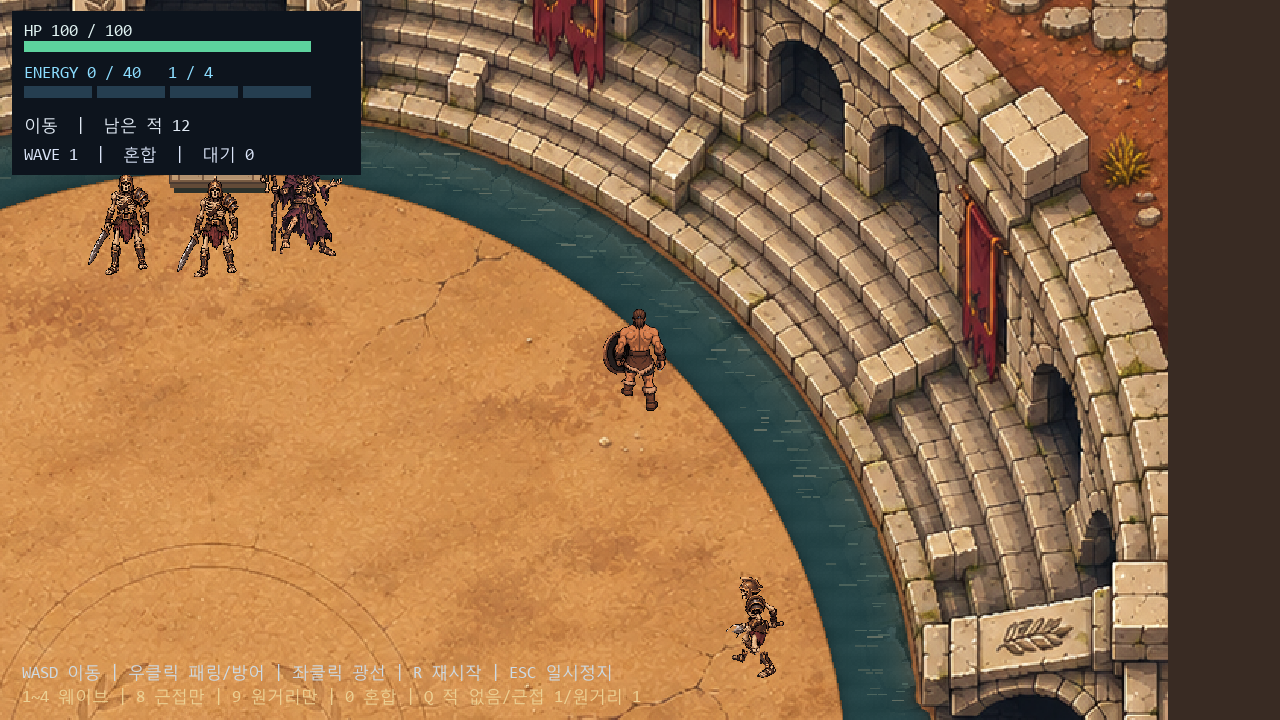
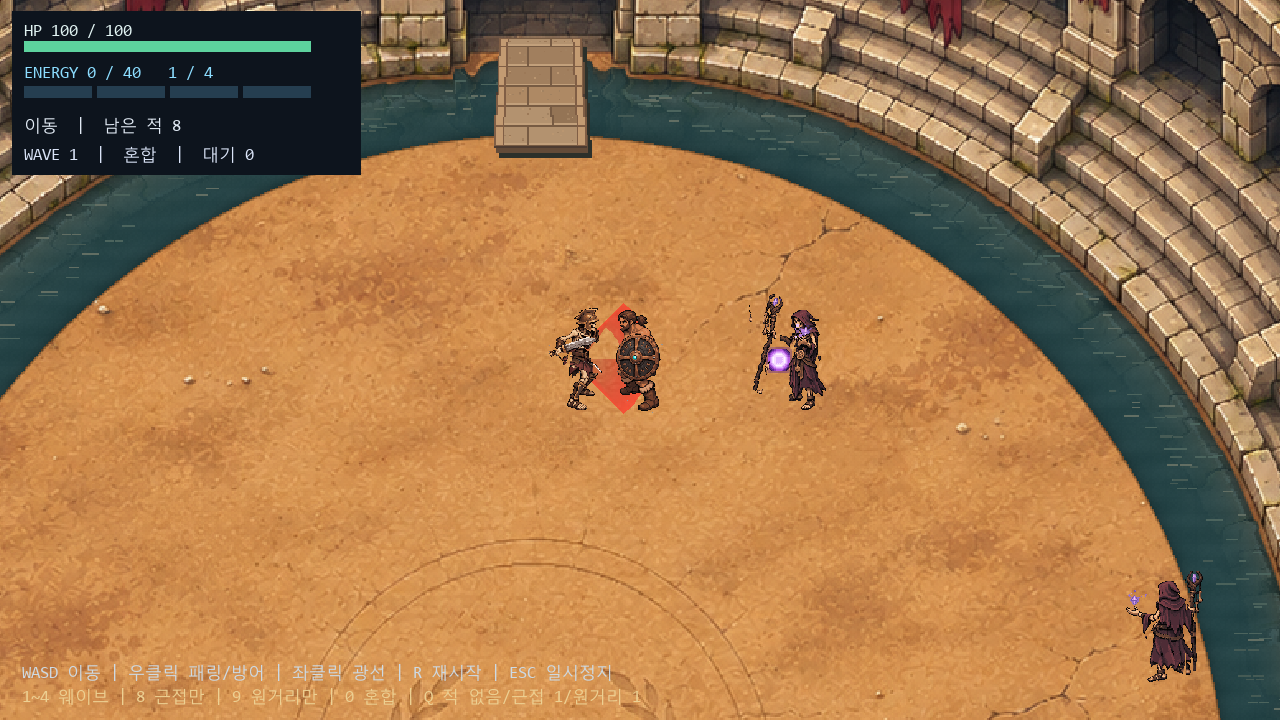
경기장을 확장하고 첫 웨이브와 주인공 이동 속도 조정

diff --git a/tests/test_waves.py b/tests/test_waves.py
@@ -50,22 +50,24 @@ class WaveTests(unittest.TestCase):
     def test_four_simultaneous_gates_every_point_three_seconds(self):
         player, waves = controller()
         waves.load()
-        self.assertEqual((len(waves.enemies), waves.pending), (4, 8))
+        self.assertEqual((len(waves.enemies), waves.pending), (4, 4))
         self.assertEqual({gate for _, gate, _ in waves.spawn_log}, {'north', 'south', 'west', 'east'})
         for enemy in waves.enemies:
-            self.assertTrue(player.arena.contains_box(enemy.x, enemy.y - .45, .9, .9))
+            foot_height = player.boundary_height
+            foot_y = enemy.y - (enemy.height - foot_height) / 2
+            self.assertTrue(player.arena.contains_box(enemy.x, foot_y, enemy.width, foot_height))
         elapse(waves, .299)
         self.assertEqual(len(waves.enemies), 4)
         elapse(waves, .001)
-        self.assertEqual((len(waves.enemies), waves.pending), (8, 4))
+        self.assertEqual((len(waves.enemies), waves.pending), (8, 0))
         elapse(waves, .3)
-        self.assertEqual((len(waves.enemies), waves.pending), (12, 0))
+        self.assertEqual((len(waves.enemies), waves.pending), (8, 0))
         self.assertEqual(sum(isinstance(e, RangedEnemy) for e in waves.enemies), 4)
         for gate in ('north', 'south', 'west', 'east'):
-            self.assertEqual([t for t, g, _ in waves.spawn_log if g == gate], [0, .3, .6])
+            self.assertEqual([t for t, g, _ in waves.spawn_log if g == gate], [0, .3])
 
     def test_count_and_kinds_for_every_wave_and_mode(self):
-        for number, count in ((1, 12), (2, 12), (3, 16), (4, 0)):
+        for number, count in ((1, 8), (2, 12), (3, 16), (4, 0)):
             for selection in ('all', 'melee', 'ranged'):
                 player, waves = controller()
                 waves.load(number, selection)
@@ -74,6 +76,10 @@ class WaveTests(unittest.TestCase):
                 self.assertEqual(waves.pending, 0)
                 ranged = sum(isinstance(e, RangedEnemy) for e in waves.enemies)
                 self.assertEqual(ranged, 0 if selection == 'melee' else count if selection == 'ranged' else min(count, 4))
+                if number == 1 and selection == 'all':
+                    for gate in ('north', 'south', 'east', 'west'):
+                        self.assertEqual([(time, kind) for time, entry, kind in waves.spawn_log
+                                          if entry == gate], [(0, 'melee'), (.3, 'ranged')])
 
     def test_q_cycles_zero_one_melee_one_ranged_and_clears_old_wave(self):
         player, waves = controller()
@@ -105,7 +111,7 @@ class WaveTests(unittest.TestCase):
             waves.handle_key(code)
             self.assertIsNone(waves.single_mode)
             elapse(waves, 1)
-            expected = 0 if waves.number == 4 else 16 if waves.number == 3 else 12
+            expected = {1: 8, 2: 12, 3: 16, 4: 0}[waves.number]
             self.assertEqual(len(waves.enemies), expected)
 
     def test_jump_and_filter_remove_old_objects_and_queue_keep_player(self):

diff --git a/tools/generate_data.py b/tools/generate_data.py
@@ -191,7 +191,7 @@ def validate_waves(data, scale, combat):
     for row in data['ranged']:
         if row['character_id'] not in characters:
             raise ValueError('존재하지 않는 원거리 캐릭터 참조')
-        if not combat['systems'][0]['guard_kmph'] < row['speed_kmph'] < characters[row['character_id']]['speed_kmph']:
+        if row['speed_kmph'] >= characters[row['character_id']]['speed_kmph']:
             raise ValueError('원거리 적 이동 속도 관계가 잘못되었습니다.')
     return data
 
@@ -244,12 +244,14 @@ def validate_combat(data, scale):
     if system['beam_duration_s'] <= system['beam_tick_s'] * 2:
         raise ValueError('광선 지속 시간이 세 번째 타격 전에 끝납니다.')
     characters = {r['id']: r for r in scale['characters']}
+    if system['guard_kmph'] >= characters['player']['speed_kmph']:
+        raise ValueError('기본 방어 이동 속도는 달리기보다 느려야 합니다.')
     enemies = {r['id']: r for r in data['enemies']}
     for enemy in enemies.values():
         if enemy['character_id'] not in characters:
             raise ValueError('존재하지 않는 캐릭터 참조')
-        if not system['guard_kmph'] < enemy['speed_kmph'] < characters[enemy['character_id']]['speed_kmph']:
-            raise ValueError('기본 방어 < 적 < 일반 이동 속도 관계가 잘못되었습니다.')
+        if enemy['speed_kmph'] >= characters[enemy['character_id']]['speed_kmph']:
+            raise ValueError('근접 적 이동 속도는 달리기보다 느려야 합니다.')
     return data
 
 

diff --git a/tests/test_scale.py b/tests/test_scale.py
@@ -107,7 +107,7 @@ class ScaleTests(unittest.TestCase):
         for width, height in ((1280, 720), (1920, 1080), (2560, 1440), (1280, 1024)):
             arena, player, camera = scene(width, height)
             ppm = camera.pixels_per_meter
-            self.assertAlmostEqual(arena.radius * 2 * ppm, height * 1.75)
+            self.assertAlmostEqual(arena.radius * 2 * ppm, height * 1.9)
             melee = MeleeEnemy('melee', ENEMIES['melee'], 0, 0, player)
             ranged = RangedEnemy('ranged', RANGED['ranged'], 0, 0, player, None)
             for actor in (player, melee, ranged):
@@ -127,7 +127,7 @@ class ScaleTests(unittest.TestCase):
                 game_framework.frame_time = 1 / fps
                 for _ in range(fps * 3):
                     player.update()
-                self.assertAlmostEqual(hypot(player.x, player.y), 14 / 3.6 * 3)
+                self.assertAlmostEqual(hypot(player.x, player.y), 22 / 3.6 * 3)
 
     def test_irregular_frames_and_key_release(self):
         _, player, _ = scene()
@@ -255,7 +255,7 @@ class RenderTests(unittest.TestCase):
             game_framework.frame_time = 1 / 60
             for _ in range(60):
                 play_mode.update()
-            self.assertAlmostEqual(play_mode.player.y, 14 / 3.6)
+            self.assertAlmostEqual(play_mode.player.y, 22 / 3.6)
             self.assertEqual(play_mode.camera.to_screen(play_mode.player.x, play_mode.player.y),
                              (640, 360))
             with patch.object(pico2d, 'get_events', return_value=[]), \

diff --git a/tests/test_combat.py b/tests/test_combat.py
@@ -86,7 +86,7 @@ class CombatTests(unittest.TestCase):
         self.assertEqual(combat.state, 'guard')
         x = player.x
         advance(player, [], 1)
-        self.assertAlmostEqual(player.x - x, 7 / 3.6)
+        self.assertAlmostEqual(player.x - x, 14 / 3.6)
         combat.right_up()
         self.assertEqual(combat.state, 'free')
         combat.right_down()
@@ -235,7 +235,7 @@ class CombatTests(unittest.TestCase):
         self.assertFalse(player.combat.fire())
         advance(player, [], .5)
         self.assertEqual(beam.angle, 0)
-        self.assertAlmostEqual(player.y, 14 / 3.6 * .5)
+        self.assertAlmostEqual(player.y, 22 / 3.6 * .5)
         self.assertEqual((enemy.hp, other.hp), (55, 55))
         advance(player, [], 1)
         self.assertEqual(player.combat.state, 'free')
@@ -269,7 +269,8 @@ class CombatTests(unittest.TestCase):
         scale = json.loads((ROOT / 'data/scale.json').read_text(encoding='utf-8'))
         for sheet, field, value in (('enemies', 'character_id', 'missing'),
                                     ('systems', 'energy_max', None),
-                                    ('enemies', 'speed_kmph', 20),
+                                    ('enemies', 'speed_kmph', 22),
+                                    ('systems', 'guard_kmph', 22),
                                     ('stages', 'parry_window_s', 2)):
             data = copy.deepcopy(source)
             data[sheet][0][field] = value

diff --git a/game_data.py b/game_data.py
@@ -7,7 +7,7 @@ VIEWPORTS = {'main': {'id': 'main',
 
 ARENAS = {'arena': {'id': 'arena',
            'viewport_id': 'main',
-           'diameter_height_ratio': 1.75,
+           'diameter_height_ratio': 1.9,
            'grid_m': 1.0}}
 
 CHARACTERS = {'player': {'id': 'player',
@@ -15,5 +15,5 @@ CHARACTERS = {'player': {'id': 'player',
             'height_ratio': 0.13333333333333333,
             'width_height_ratio': 0.5,
             'boundary_height_ratio': 0.5,
-            'speed_kmph': 14.0}}
+            'speed_kmph': 22.0}}
 

diff --git a/combat_data.py b/combat_data.py
@@ -1,7 +1,7 @@
 # 자동 생성 파일: data/combat.json을 수정한 뒤 tools/generate_data.py 실행
 SYSTEMS = {'main': {'id': 'main',
           'player_hp': 100,
-          'guard_kmph': 7,
+          'guard_kmph': 14,
           'input_lock_s': 1,
           'success_invuln_s': 1,
           'hit_invuln_s': 0.5,

diff --git a/wave_data.py b/wave_data.py
@@ -5,7 +5,7 @@ WAVES = {'wave1': {'id': 'wave1',
            'number': 1,
            'melee_id': 'melee',
            'ranged_id': 'ranged',
-           'melee_per_gate': 2,
+           'melee_per_gate': 1,
            'ranged_per_gate': 1},
  'wave2': {'id': 'wave2',
            'number': 2,

diff --git a/docs/combat-decisions.md b/docs/combat-decisions.md
@@ -7,7 +7,7 @@
 - 조준: 마우스 방향. 광선 발사: 왼쪽 클릭.
 - 근접 적: 주인공과 같은 크기, 직사각형 몸체 및 히트박스 2.4m × 4.8m.
 - 칼 공격: 준비할 때 방향을 고정하고 전방 90도를 쓸어 벤다.
-  예고 범위와 실제 칼의 히트박스를 도형으로 표시한다.
+  베기 범위가 붉은 그라데이션으로 두 번 깜빡인다.
 - 최초 전투 단계는 이미지 없이 방어·패링·광선과 근접 적 전투를 구현했다.
   후속 웨이브/원거리 추가 및 변경 규칙은 `docs/wave-debug-decisions.md`를 우선한다.
 
@@ -24,7 +24,7 @@
 - 광선은 관통하며 경기장 끝까지 닿는다. 0/0.5/1초에 피해, 1.5초에 종료.
 - 광선 중 통상 속도로 이동. 방어·재발사·취소 불가, 광선 자체의 무적 없음.
 - 근접 적은 추적 → 방향 고정 및 예고 → 칼 휘두르기 → 후딜을 반복한다.
-- 이동 속도는 기본 방어 중 플레이어 < 적 < 통상 플레이어.
+- 주인공은 방패를 들고 적보다 빠르게 움직이고, 달리면 더 빨라진다.
 
 크기·카메라·일반 이동 속도에 관한 최신 사용자 결정은 AGENTS.md를 따른다.
 ## 적용한 초기 수치
@@ -34,11 +34,12 @@
 
 | 항목 | 수치 |
 | --- | --- |
-| 이동 속도 | 일반 14 / 적 10 / 기본 방어 7km/h |
+| 이동 속도 | 달리기 22 / 적 10 / 기본 방어 14km/h |
 | 체력·피해 | 주인공 100 / 적 60 / 칼 피해 10 |
-| 칼 | 길이 8m, 두께 1m, 전방 90도 |
-| 적 행동 | 정지 거리 8.2m, 예고 0.6초, 휘두르기 0.25초, 후딜 0.8초 |
+| 칼 | 길이 3.4m, 두께 1m, 전방 90도 |
+| 적 행동 | 몸체가 맞닿기 0.45m 전부터 예고 0.6초, 휘두르기 0.25초, 후딜 0.8초 |
 | 패링 구간 | 단계별 0.30 / 0.22 / 0.15 / 0.10초 |
+| 패링 동작 | 방패를 0.11초에 들어 올림. 성공 순간 방패가 위로 튕김 |
 | 축적 | 공격당 10, 최대 40 |
 | 단계 | 0~9 / 10~19 / 20~29 / 30~40 |
 | 광선 | 타격당 발사 전 축적량 × 0.5, 1~3단계 폭 2.1m, 4단계 폭 4.2m |

diff --git a/AGENTS.md b/AGENTS.md
@@ -14,16 +14,16 @@
 - 동작하는 클래스·기능 단위로 유의미한 커밋을 남긴다. 커밋 메시지는 한글로 작성한다.
 - 기획서와 사용자 확정 내용으로 결정할 수 없는 게임 규칙·크기·콘텐츠는 구현 전에
   한 번에 한 질문으로 확답을 받는다. 기술적인 구현 선택은 개발자가 결정한다.
-- 확정 크기: 원형 맵 지름은 화면 높이의 1.75배, 캐릭터 높이는 화면 높이의 약 13.33%,
+- 확정 크기: 원형 맵 지름은 화면 높이의 1.9배, 캐릭터 높이는 화면 높이의 약 13.33%,
   직사각형 히트박스의 가로:세로는 1:2. 주인공과 두 적은 같은 크기를 사용한다.
 - 경기장 경계 제한에는 플레이어 히트박스의 하단 1/2만 사용한다.
   전체 히트박스는 유지하고 상단 1/2은 원 밖으로 나갈 수 있다.
 - 카메라는 경계에서도 플레이어를 항상 화면 정중앙에 둔다. 원 밖은 보이는
-  지면이지만 이동 불가 영역이다. 기본 이동 속도는 14km/h이다.
+  지면이지만 이동 불가 영역이다. 달리기는 22km/h, 방패를 든 이동은 14km/h이다.
 - 실행은 전체화면 대신 창 모드를 사용한다. 기본 1280×720, 작은 화면에서는
   바탕화면의 85% 이내로 축소하고 X 버튼으로 정상 종료한다.
 - 콜로세움과 캐릭터는 2D 도트로 표현한다. 전투 규칙은 `docs/combat-decisions.md`를 읽는다.
-- 세 캐릭터의 몸체와 히트박스는 2.4m × 4.8m이다. 카메라 축척과 경기장 크기는 유지한다.
+- 세 캐릭터의 몸체와 히트박스는 2.4m × 4.8m이다.
 - 최신 웨이브·원거리 규칙은 `docs/wave-debug-decisions.md`를 따른다.
   1~4는 웨이브 이동, 8/9/0은 근접만/원거리만/혼합으로 현재 웨이브 재생성.
   네 방향 동시 시작, 각 입구 0.3초 간격, 출현/원거리 공격 예고 없음.

diff --git a/docs/wave-debug-decisions.md b/docs/wave-debug-decisions.md
@@ -18,7 +18,8 @@
 
 ## 기획서의 초기 배치
 
-- 혼합 1·2웨이브: 입구별 근접 2 + 원거리 1, 전체 12마리.
+- 혼합 1웨이브: 입구별 근접 1 + 원거리 1, 전체 8마리.
+- 혼합 2웨이브: 입구별 근접 2 + 원거리 1, 전체 12마리.
 - 혼합 3웨이브: 입구별 근접 3 + 원거리 1, 전체 16마리.
 - 단일 종류 모드도 해당 웨이브 총 마릿수를 유지하고 종류 변경 시 전부 새로 생성한다.
 - 원거리 적은 접근 후 사거리 안에서 예고 없이 직선 투사체를 발사한다.
